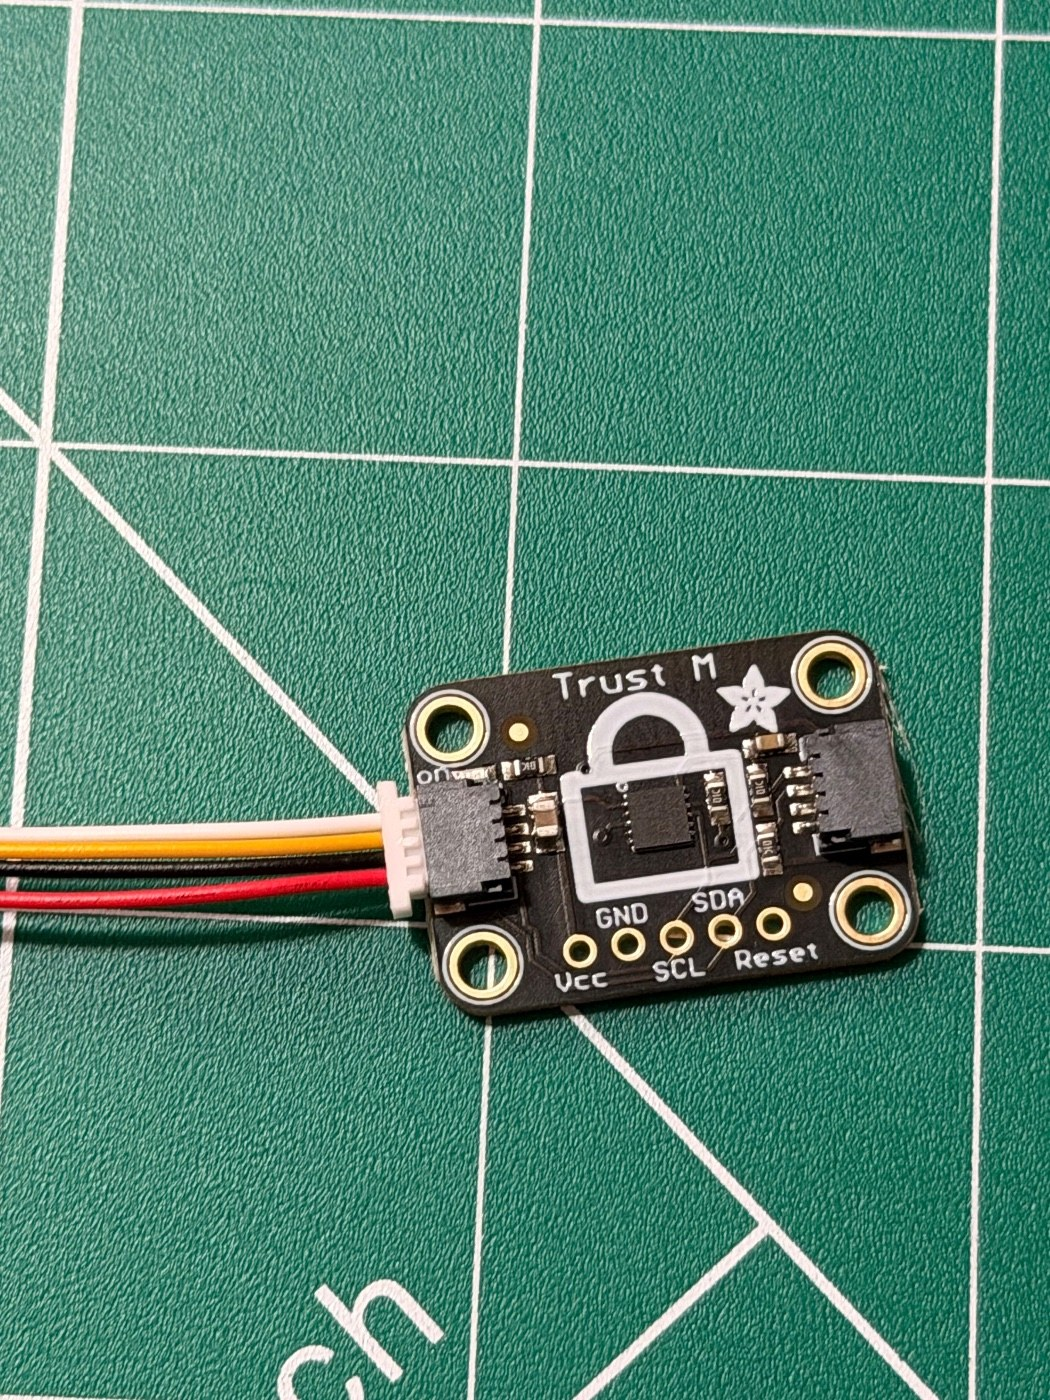
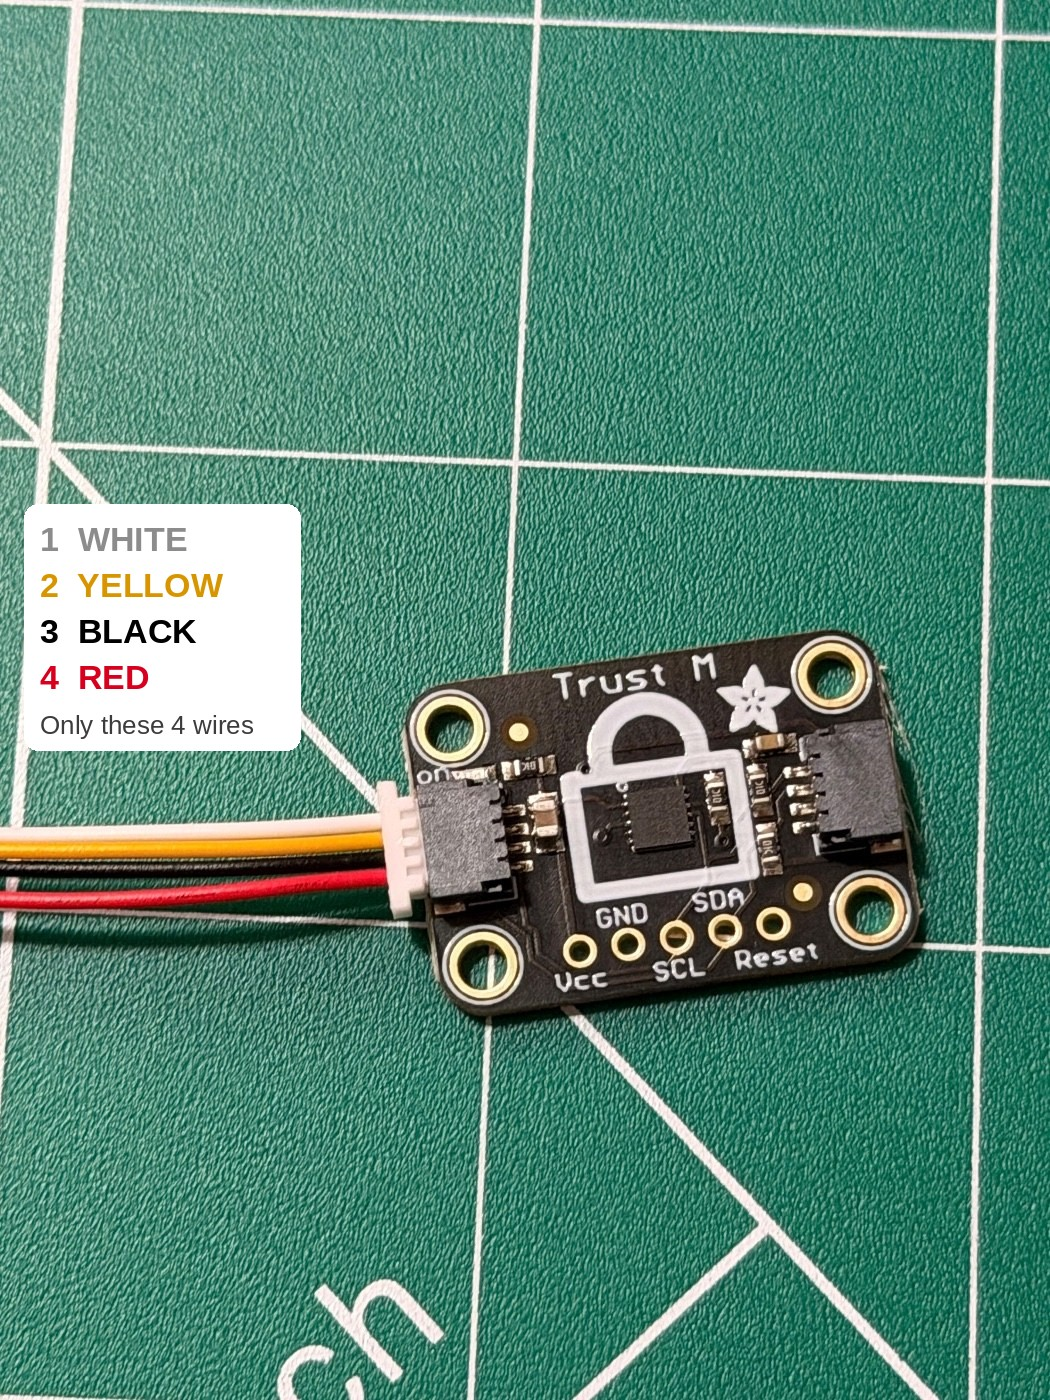
Assembly: label the 4 wires in step 2, rotate steps 4 and 13 photos, tape holes photo in step 7, spell out step 10 (plug in and tuck the chip)

Changed region(s): [[0.0, 0.3379, 0.3048, 0.5529]]

diff --git a/assembly/ASSEMBLY.md b/assembly/ASSEMBLY.md
@@ -22,7 +22,7 @@ Photos in order. Draft. This becomes a one-page guide later.
 
 This is just to show the fit. You plug it in for real at step 10.
 
-Wire order across the plug: white, yellow, black, red.
+Only 4 wires. Top to bottom in the photo: white, yellow, black, red. The green between black and red is the mat, not a wire.
 
 ![Cable plugged into Trust M](photos/02-cable-into-trust-m.jpg)
 
@@ -68,6 +68,7 @@ Put a small piece of electrical tape over the sockets, right on top of the wires
 
 Push a stiff breadboard jumper wire through the tape into each covered socket. This opens the holes so the Pico pins fit later. The tape still holds the wires.
 
+![Holes poked through the tape](photos/08-black-red-taped.jpg)
 ![Poking holes through the tape](photos/07-poke-holes-through-tape.jpg)
 
 ## 8. Same on the other row: black and red
@@ -86,7 +87,9 @@ All 4 wires in, taped, holes open. Ready for the Pico.
 
 ## 10. Plug in the chip
 
-Plug the cable into the Trust M. Lay the Trust M at an angle on the back of the screen board.
+The cable's plug is now hanging off the screen board. Plug it into the Trust M (the plug only fits one way).
+
+Tuck the Trust M in on the back of the screen board, lying at an angle between the two header rows. Keep it off the pins. The Pico goes on top of it next.
 
 <!-- TODO: photo of the Trust M plugged in, lying on the screen board -->
 
